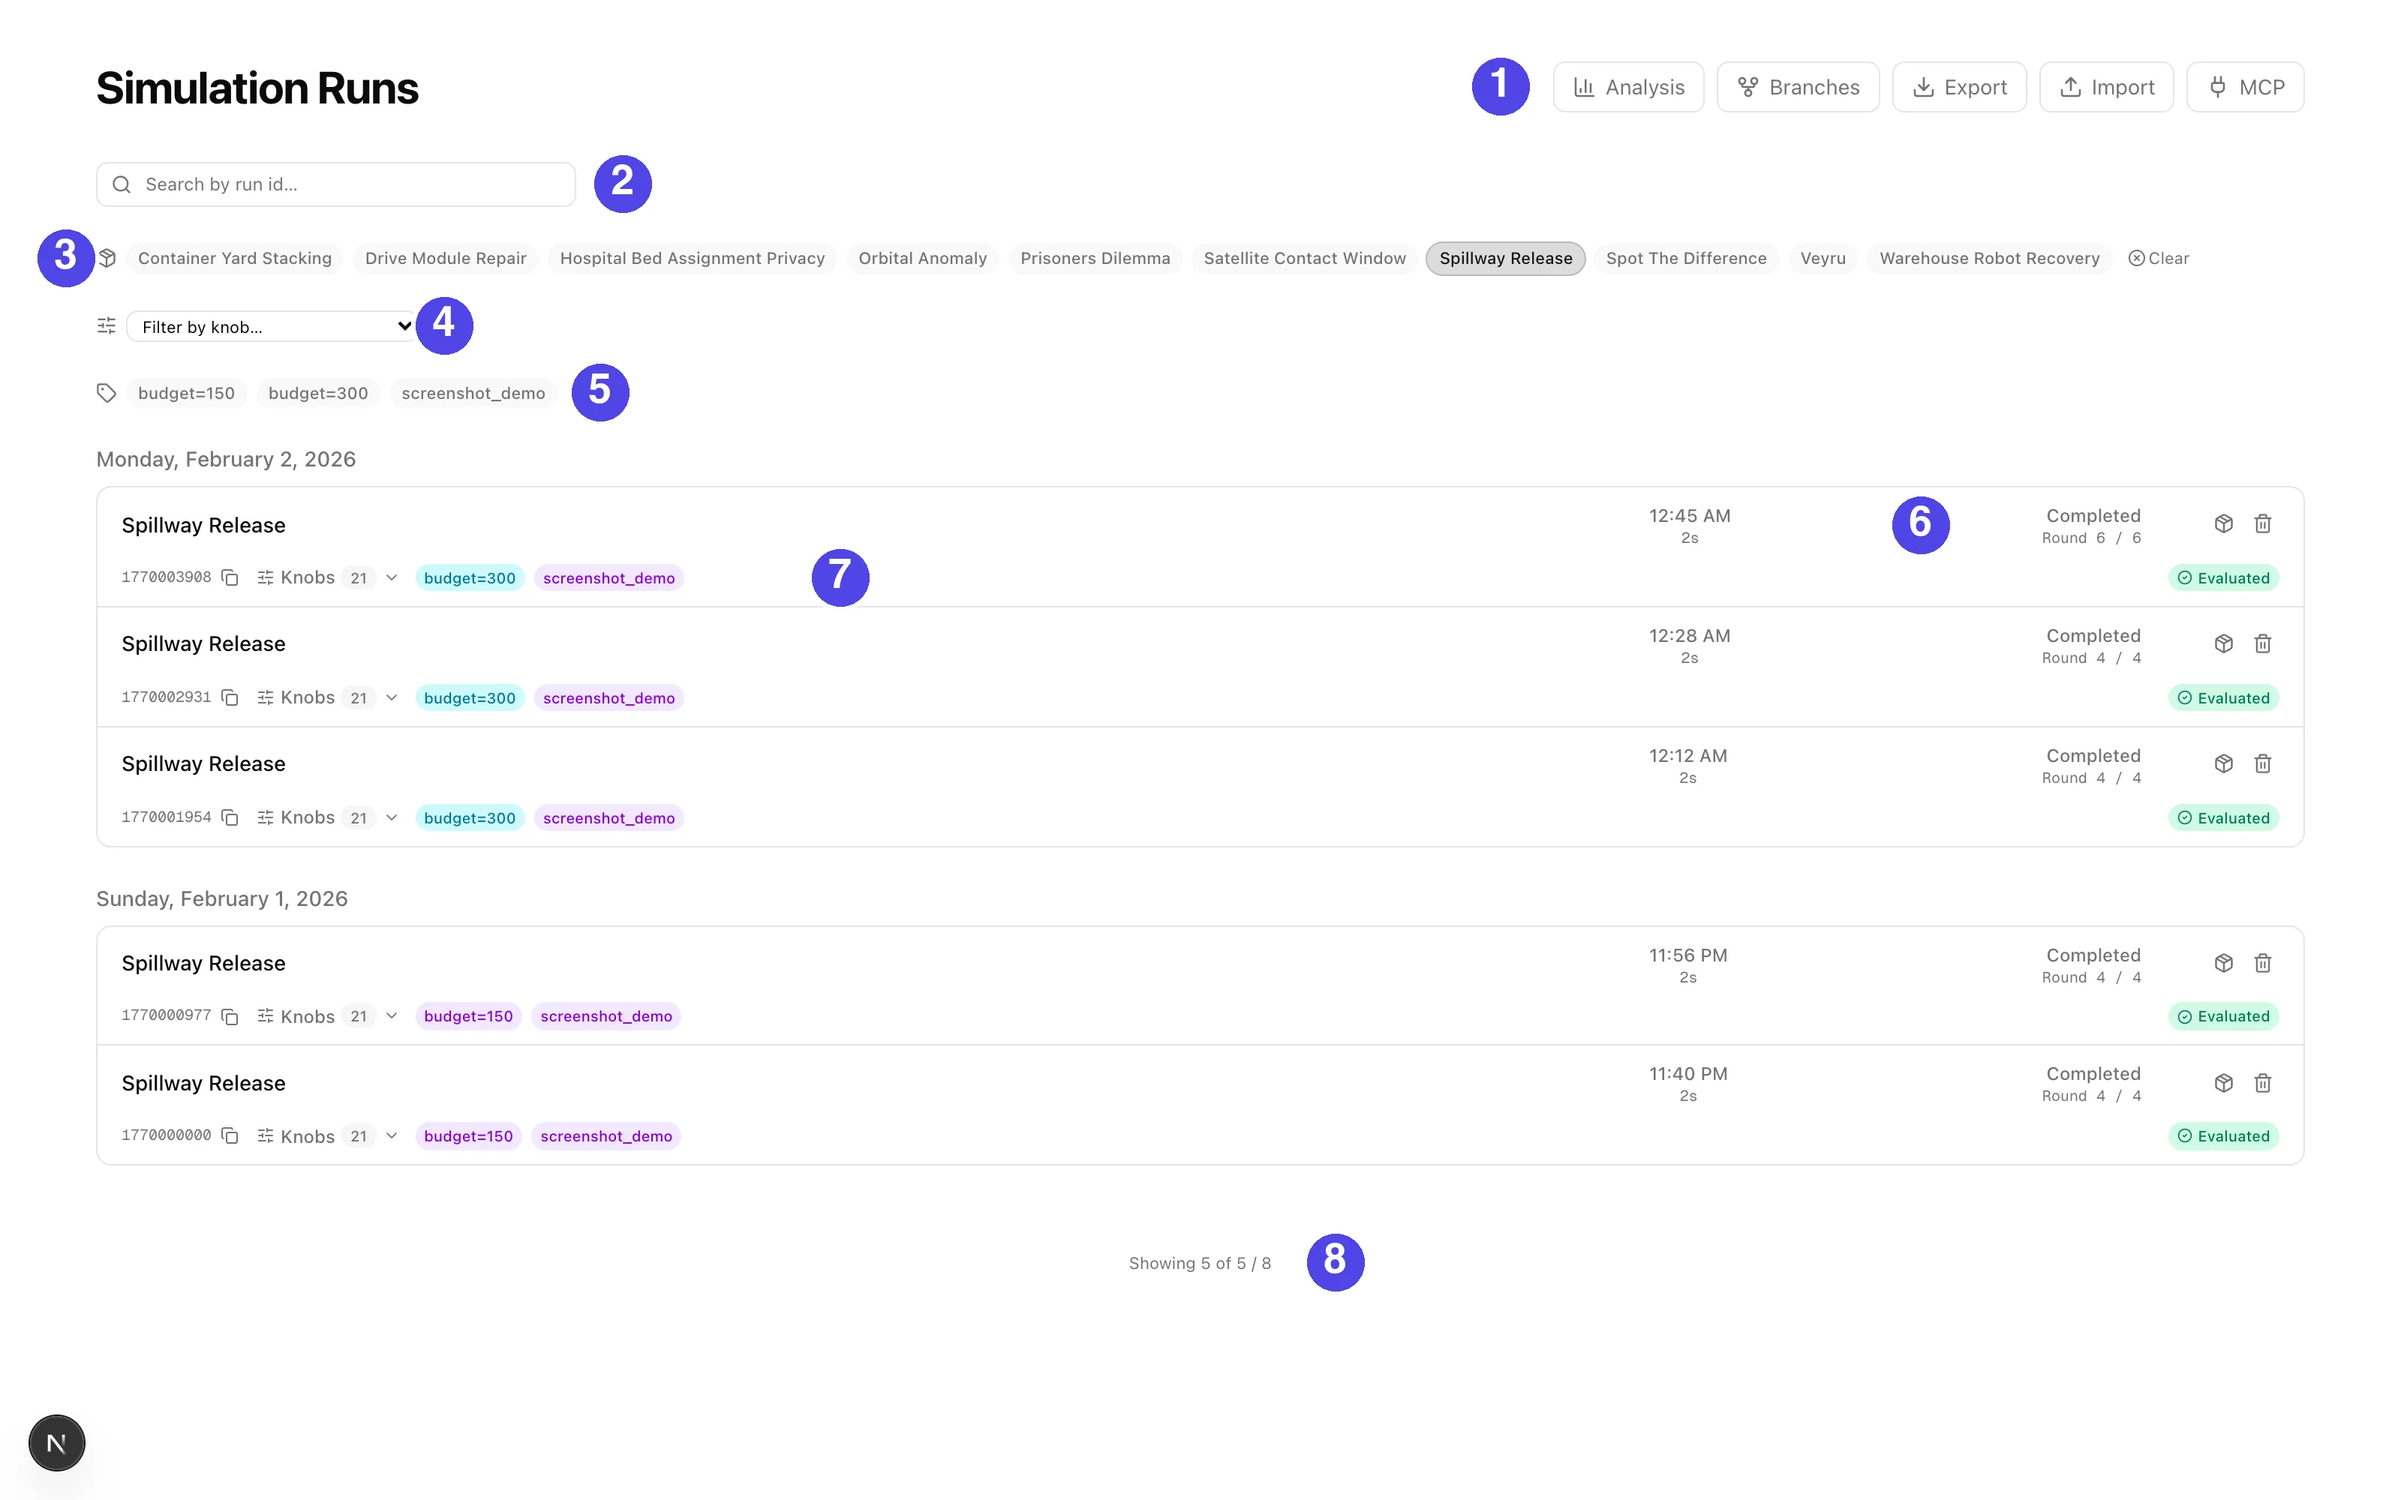
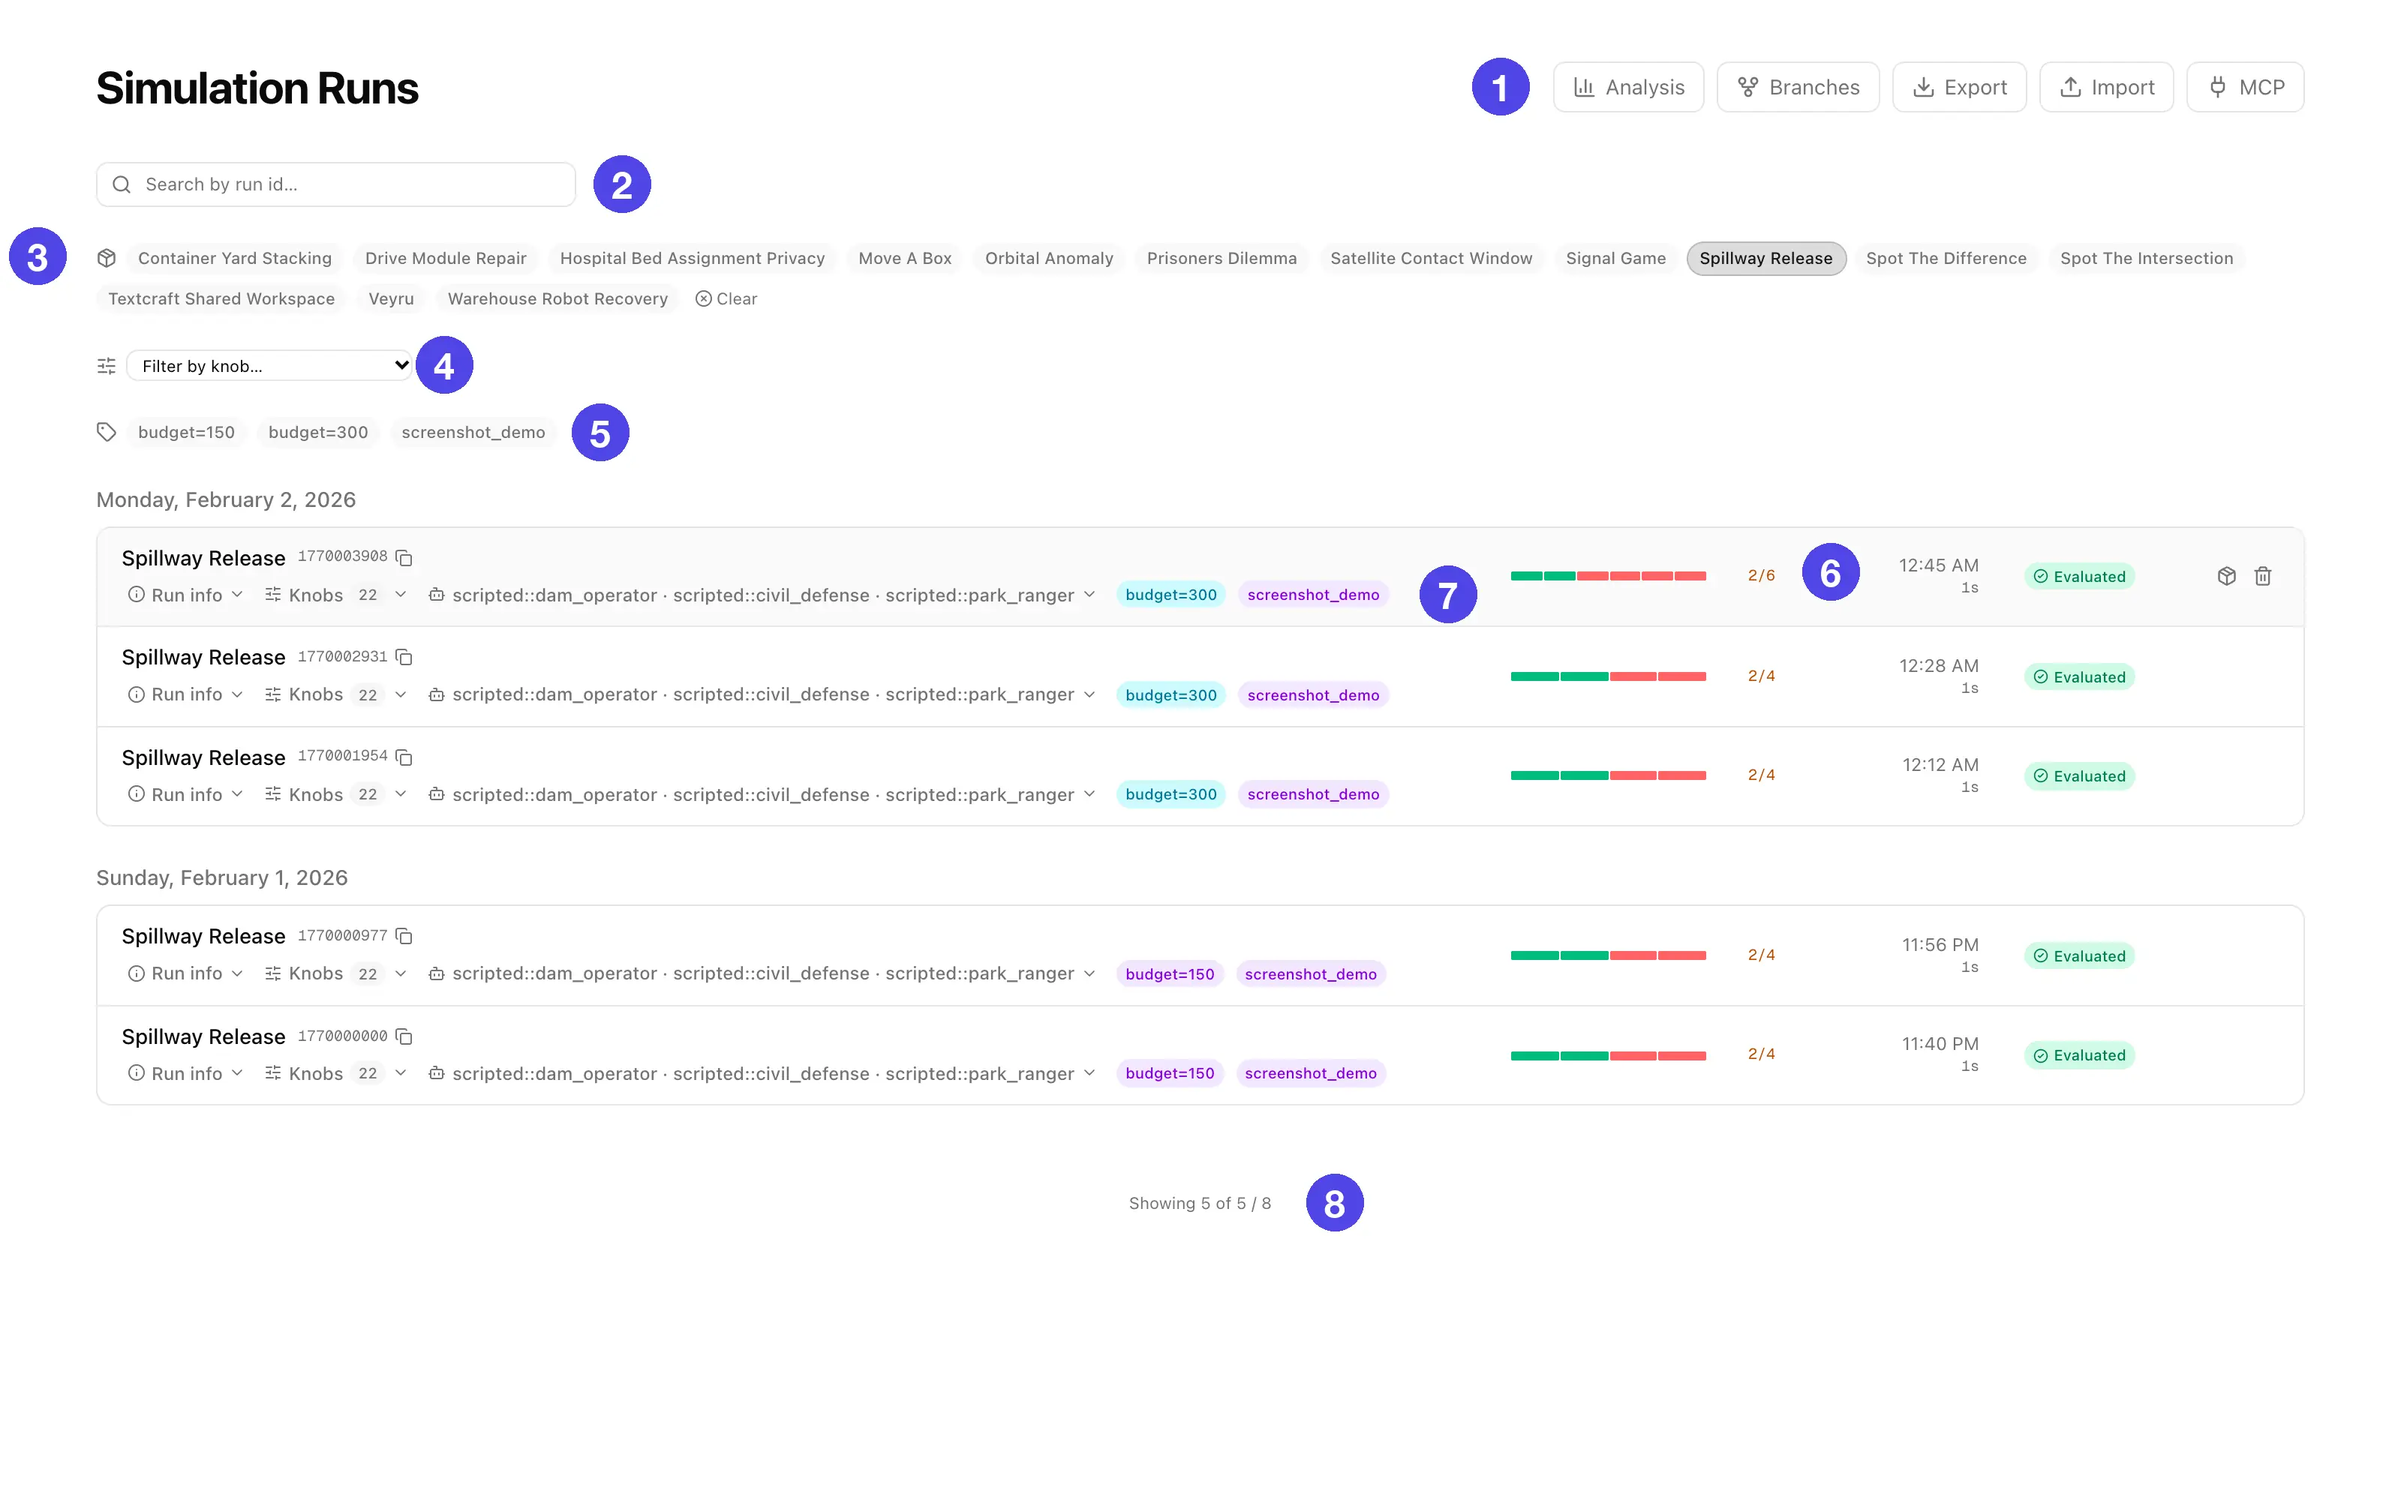
fix: confirm before deleting a run, and bring the web UI page up to date
The runs list deleted a run on one click of its hover trash icon. It now
asks first, in a dialog that names the run and says the files move to
_trash/. The result count's baseline refreshes after a delete instead of
counting the deleted run until its cache went stale.

The web UI page described a row status no longer shown, a result count
no longer printed, and four of six lineage badges. Correct the runs-page
and run-page tables, give each knob type's comparisons, and retake the
runs-list screenshot from a scripted cohort.

Claude-Session: https://claude.ai/code/session_01LtdTnJcsyn26PgtYFtn3VK

diff --git a/frontend/src/features/runs/run-list.tsx b/frontend/src/features/runs/run-list.tsx
@@ -26,6 +26,7 @@ import type { components } from "@/types/api.gen";
 import { useActiveGroupSlug } from "@/features/auth/group-context";
 import { formatDayHeader, humanize } from "./format";
 import { ConfigValueModal } from "./config-value-modal";
+import { DeleteRunModal } from "./delete-run-modal";
 import { NoteViewModal } from "./note-view-modal";
 import { KnobFilterBar } from "./knob-filter-bar";
 import { parseKnobFilter } from "./knob-filter-encoding";
@@ -69,6 +70,8 @@ export function RunList() {
   } = useRunExportSelection();
   const [configPreview, setConfigPreview] = useState<{ key: string; value: string } | null>(null);
   const [noteModalRunId, setNoteModalRunId] = useState<string | null>(null);
+  // The run whose delete button was pressed, held until the dialog is answered.
+  const [deleteCandidateRunId, setDeleteCandidateRunId] = useState<string | null>(null);
   const [selectedLabels, setSelectedLabels] = useState<Set<string>>(new Set());
   const [selectedScenarios, setSelectedScenarios] = useState<Set<string>>(new Set());
   const [knobFilters, setKnobFilters] = useState<string[]>([]);
@@ -149,6 +152,9 @@ export function RunList() {
     },
     onSuccess: () => {
       queryClient.invalidateQueries({ queryKey: ["runs"] });
+      // The baseline count is cached under its own key, so it would otherwise
+      // keep counting the deleted run until it went stale.
+      queryClient.invalidateQueries({ queryKey: ["runs-baseline-total"] });
     },
   });
 
@@ -515,6 +521,17 @@ export function RunList() {
         <NoteViewModal runId={noteModalRunId} onClose={() => setNoteModalRunId(null)} />
       ) : null}
 
+      {deleteCandidateRunId !== null ? (
+        <DeleteRunModal
+          runId={deleteCandidateRunId}
+          onConfirm={() => {
+            deleteMutation.mutate(deleteCandidateRunId);
+            setDeleteCandidateRunId(null);
+          }}
+          onCancel={() => setDeleteCandidateRunId(null)}
+        />
+      ) : null}
+
       {runs.length === 0 && hasActiveFilters ? (
         <div className="flex flex-col items-center justify-center gap-2 py-12 text-muted-foreground">
           <Inbox className="h-8 w-8" />
@@ -604,7 +621,7 @@ export function RunList() {
                       run={run}
                       onNavigate={navigateToRun}
                       onStop={stopMutation.mutate}
-                      onDelete={deleteMutation.mutate}
+                      onDelete={setDeleteCandidateRunId}
                       onShowNote={setNoteModalRunId}
                       onConfigPreview={setConfigPreview}
                       shownKnobs={filteredKnobNames}

diff --git a/frontend/src/features/runs/delete-run-modal.tsx b/frontend/src/features/runs/delete-run-modal.tsx
@@ -1,0 +1,58 @@
+"use client";
+
+import { Trash2 } from "lucide-react";
+import { Modal } from "@/shared/components/ui/modal";
+import { splitRunId } from "@/shared/lib/run-id";
+import { humanize } from "./format";
+
+/**
+ * Asks before a run is deleted from the runs list. Confirming calls
+ * `onConfirm`; Cancel, Escape and a click on the backdrop call `onCancel`.
+ * The server stops a live simulation and moves the run directory to the runs
+ * directory's `_trash/`, so the dialog says the run leaves every listing.
+ */
+export function DeleteRunModal({
+  runId,
+  onConfirm,
+  onCancel,
+}: {
+  runId: string;
+  onConfirm: () => void;
+  onCancel: () => void;
+}) {
+  const { scenario, run_dir_name } = splitRunId(runId);
+  return (
+    <Modal
+      label="Delete run"
+      width="md"
+      panelClassName="flex flex-col gap-3 p-5"
+      panelId={null}
+      onClose={onCancel}
+    >
+      <h2 className="text-sm font-medium">Delete this run?</h2>
+      <p className="text-xs text-muted-foreground">
+        {humanize(scenario)} <span className="font-mono">{run_dir_name}</span> will leave the runs
+        list for everyone in this group. A simulation still running is stopped first. The files move
+        to <span className="font-mono">_trash/</span> in the server&apos;s runs directory.
+      </p>
+      <div className="flex justify-end gap-2 pt-1">
+        <button
+          type="button"
+          autoFocus
+          onClick={onCancel}
+          className="rounded-md border border-border px-3 py-1.5 text-xs text-muted-foreground transition-colors hover:bg-muted hover:text-foreground"
+        >
+          Cancel
+        </button>
+        <button
+          type="button"
+          onClick={onConfirm}
+          className="inline-flex items-center gap-1.5 rounded-md bg-destructive px-3 py-1.5 text-xs font-medium text-white transition-opacity hover:opacity-90"
+        >
+          <Trash2 className="h-3.5 w-3.5" />
+          Delete run
+        </button>
+      </div>
+    </Modal>
+  );
+}

diff --git a/docs/web-ui.md b/docs/web-ui.md
@@ -50,12 +50,12 @@ run list rather than as an error.
 |---|---|
 | 1 | Navigation: Analysis (cross-run charts), Branches (lineage), Export and Import (move runs out as CSV or archives, or in from another deployment), and MCP connection instructions |
 | 2 | Search by run id substring |
-| 3 | Scenario filter, one chip per installed scenario. Selecting exactly one reveals the knob filter bar, item 4 |
+| 3 | Scenario filter, one chip per installed scenario, shown when more than one is installed. Selecting exactly one reveals the knob filter bar, item 4 |
 | 4 | The knob filter bar, covered below |
-| 5 | Label filter, AND-matched: a run must carry every selected label |
-| 6 | A run row: when it started, how long it ran, what it cost, its status (in-progress runs are listed too), and the round it reached |
-| 7 | The run's id with a copy button, a **Knobs** dropdown listing the full recorded config, the run's labels, and its evaluation status. Derived runs carry lineage badges here (fork, replace-agent, cross-run, fork-at-round) |
-| 8 | The result count: how many runs the knob conditions kept, out of what the other filters left |
+| 5 | Label filter, AND-matched: a run must carry every selected label. `eval:*` and `src=*` labels get no chip |
+| 6 | A run row: when it started, how long it ran, what it cost when that is above zero, and the rounds it played, as a pass/fail bar per team when the scenario judges its rounds. A status shows only when the run did not complete: starting, in progress, error or killed. Hovering the row offers the run's bundle for download and a delete button, which asks before it moves the run to the runs directory's `_trash/`. An evaluated run carries an **Evaluated** badge whose hover lists its scores. A live run also has a stop button |
+| 7 | The run's id with a copy button, then the **Run info**, **Knobs** (the full recorded config) and models dropdowns, and the run's labels. Lineage badges sit beside the id: fork, replace-agent, cross-run, fork-at-round, and the intern and two-team modes. A run with a note carries a **Note** button that opens it |
+| 8 | The result count: how many runs are loaded, out of how many match. With a filter on, a third number gives the baseline: the runs the other filters leave before the knob conditions, or the whole group when no knob condition is set |
 
 ### Filtering by knob
 
@@ -63,10 +63,19 @@ run list rather than as an error.
 
 Select a single scenario and a filter bar appears offering that scenario's
 knobs. Pick a knob, a comparison and a value, and press Add. Conditions
-accumulate as chips and every one has to hold. The comparisons on offer follow
-the knob's type: a number takes `>= <= > < = !=`, a boolean takes true or false, an enum
-takes one of its own values, and a knob that can be left unset gets a "not set"
-box.
+accumulate as chips and every one has to hold. Each row then shows the value it
+recorded for every knob a condition names.
+
+The comparisons on offer follow the knob's type:
+
+| Knob type | Comparisons | Value |
+|---|---|---|
+| Integer or number | `>= <= > < = !=` | a number |
+| Boolean | `=` | true or false |
+| Enum | `=` `!=` | one of the knob's own values |
+| String | `=` `!=` | typed text |
+
+A knob that can be left unset also gets a "not set" box, which takes `=` or `!=`.
 
 The knobs come from the scenario's own schema, so a scenario installed from
 another package is filterable with no change to the platform.
@@ -86,8 +95,8 @@ the group can open. See [analysis and dashboards](analysis.md).
 
 | # | What it is |
 |---|---|
-| 1 | The run: scenario, a copyable id, and its labels |
-| 2 | Run info and actions: the recorded knobs, re-running evaluation, editing labels, attaching a note |
+| 1 | The run: scenario, a button opening the scenario's description, a copyable id, lineage badges for a derived run, and its labels |
+| 2 | Run info and actions: the recorded knobs, running or re-running evaluation (offered once the run has ended, and hidden when the server disables evaluations), editing labels, attaching a note |
 | 3 | Channel tabs: every channel's messages interleaved in send order, or one channel at a time |
 | 4 | Agent tabs: the run as one agent saw it. A seat swapped mid-run gets one tab per occupant |
 | 5 | The evaluation log, when an evaluation has run |
